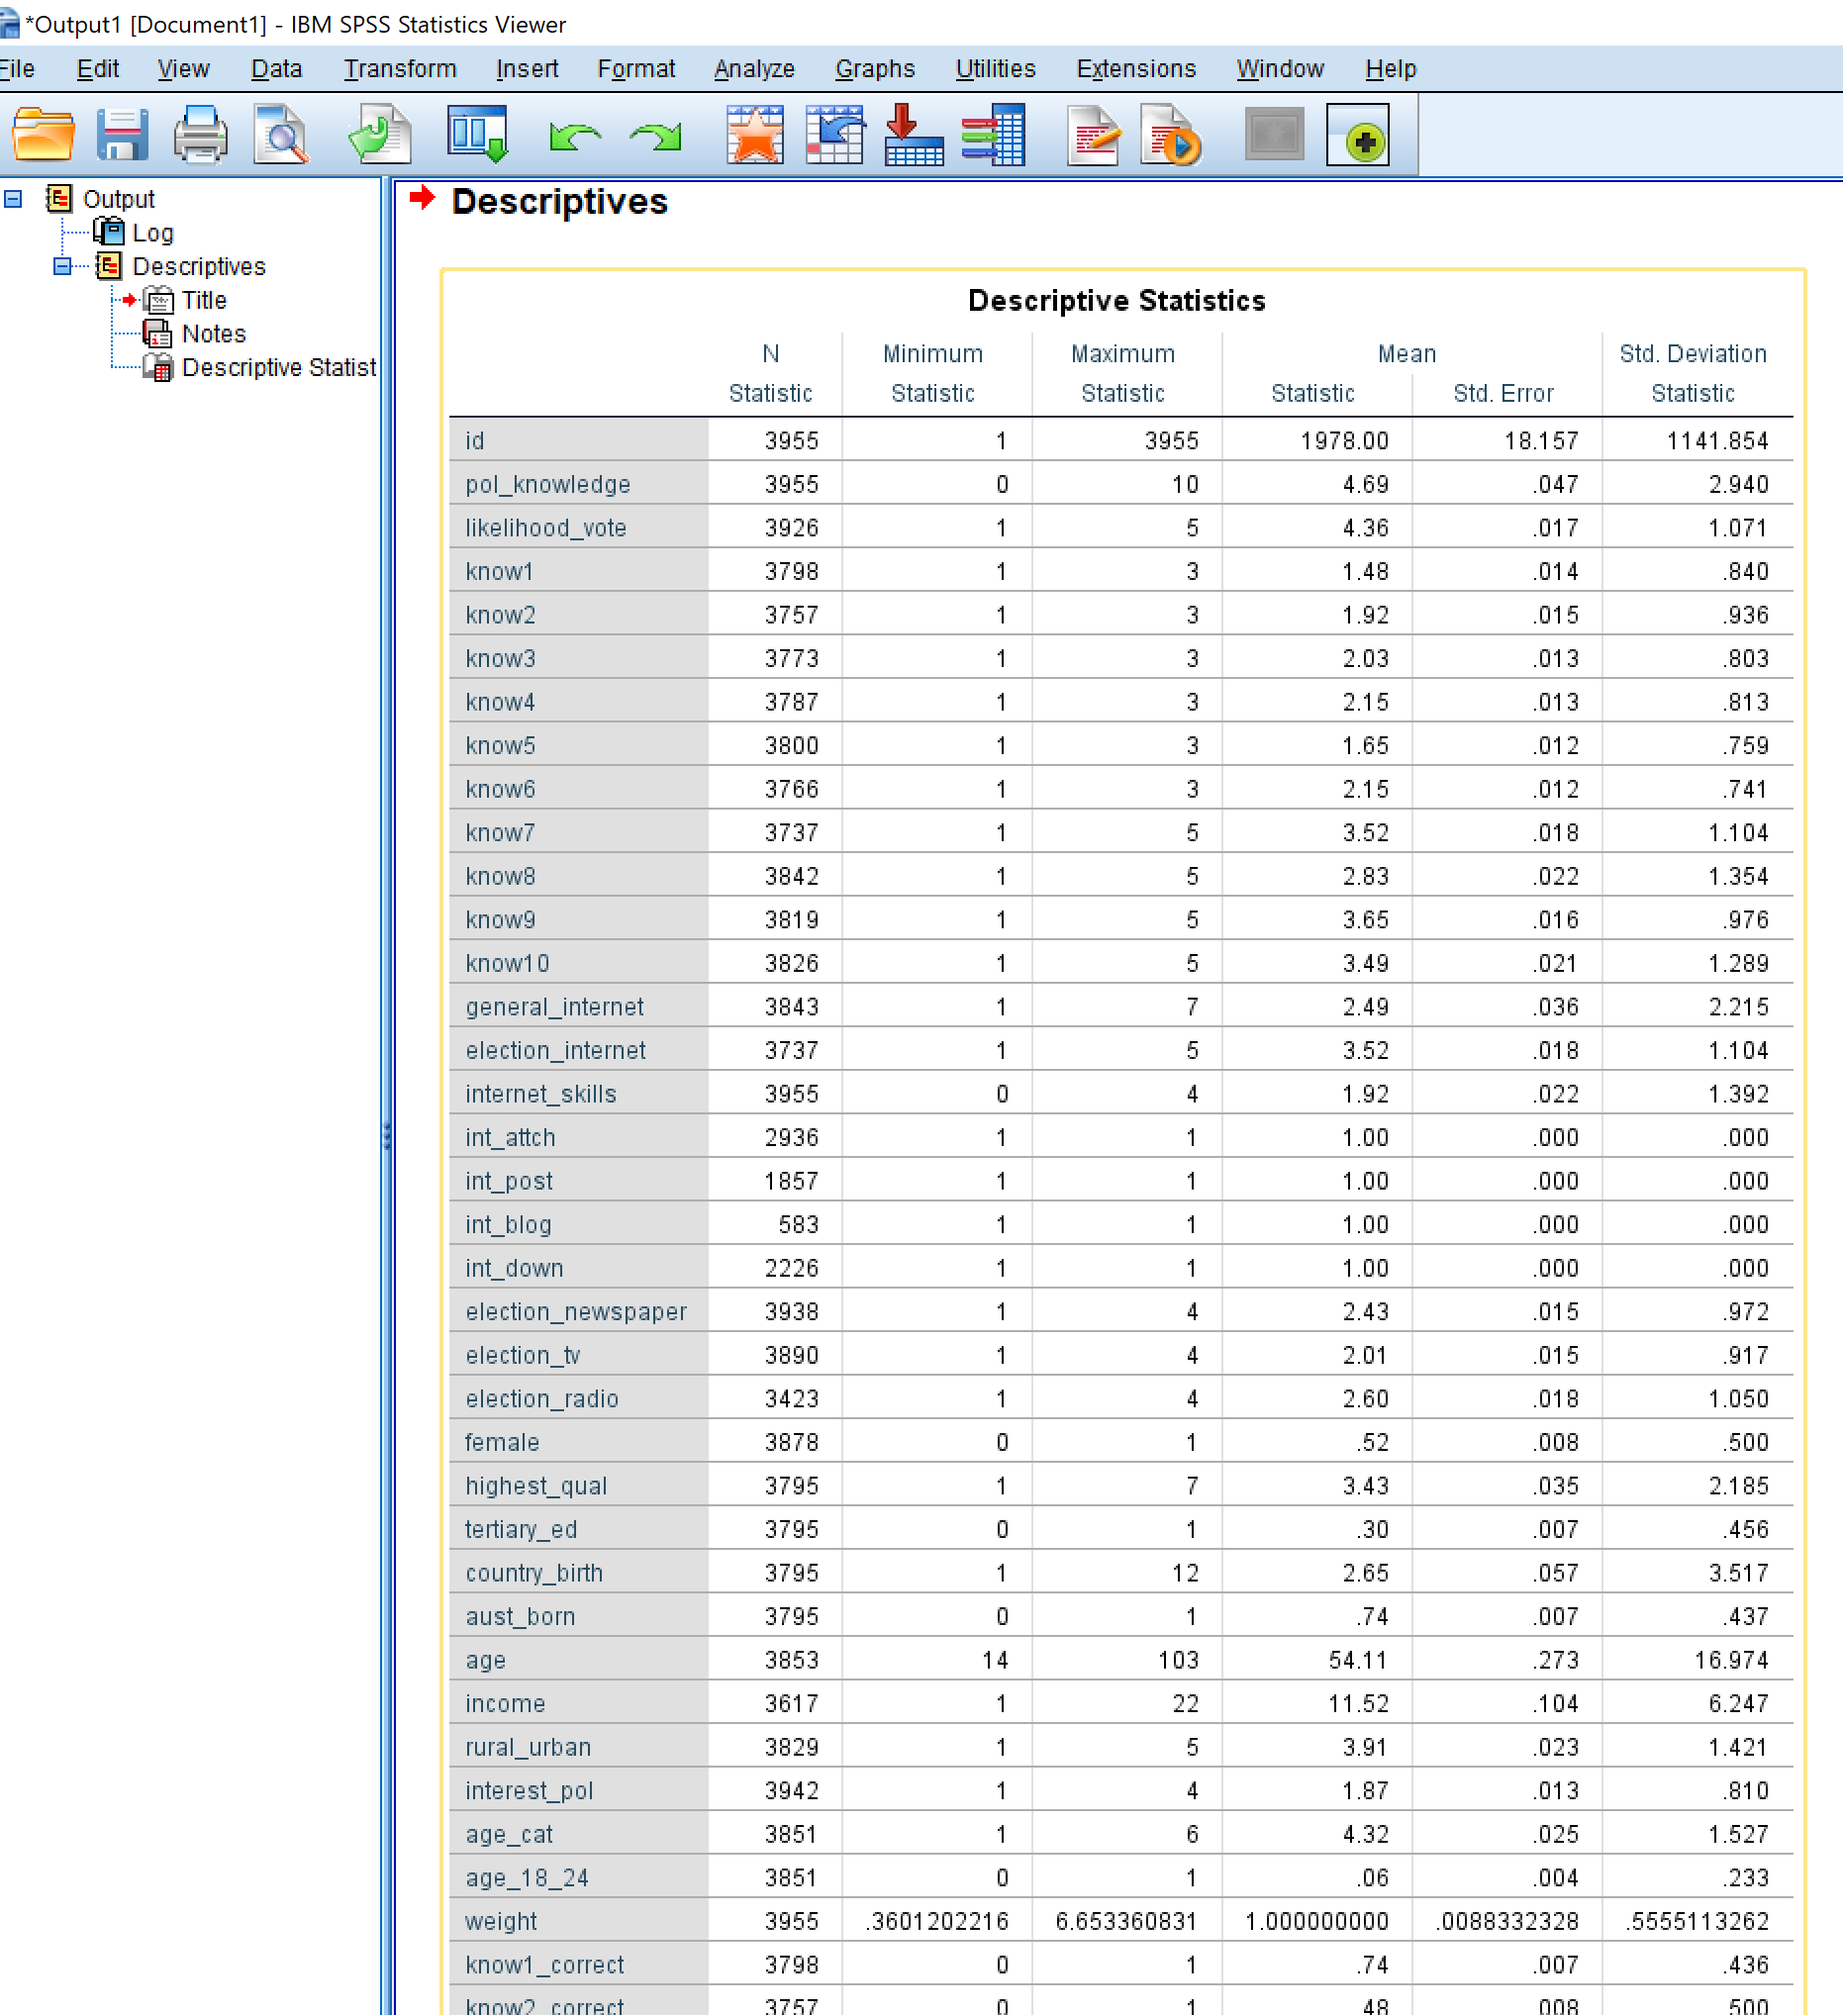
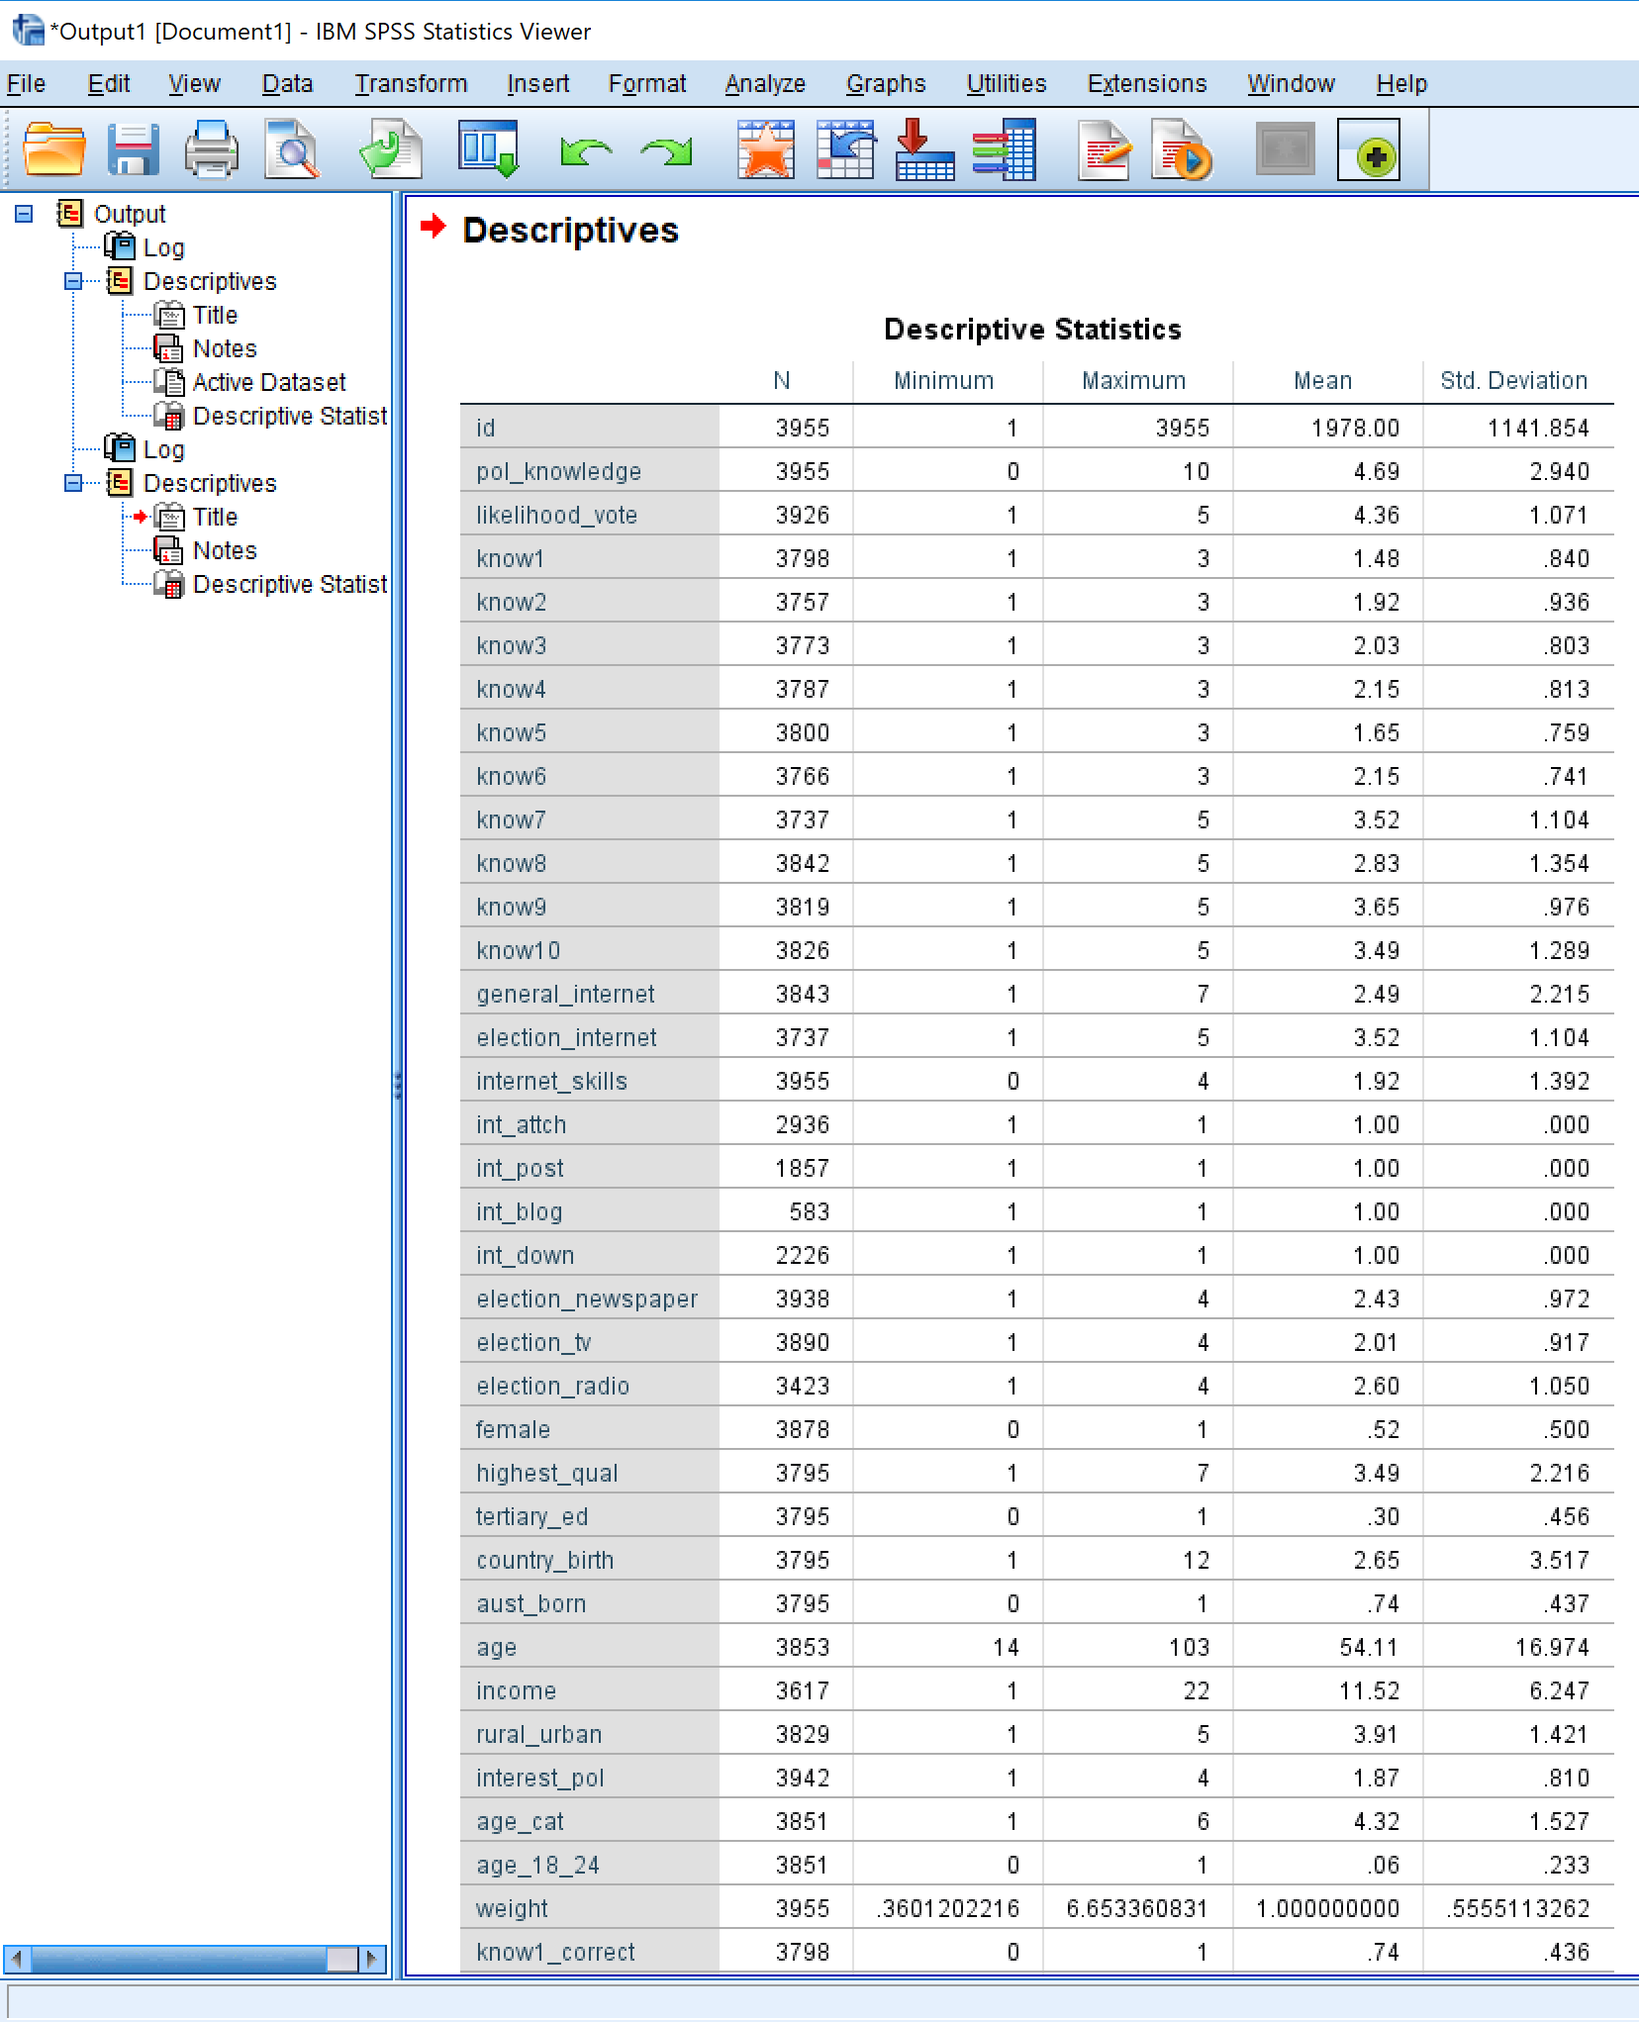
224 fix descriptive stats with layout

Changed region(s): [[0.0, 0.0, 1.0, 1.0]]

diff --git a/content/docs/quant_analysis_lab_03.html b/content/docs/quant_analysis_lab_03.html
@@ -1,5 +1,5 @@
 ---
-title: "Lab 3: Eyeballing data for errors (Descriptive Statistics)"
+title: "Lab 3: Descriptive Statistics: Summarising your data and checking for errors"
 
 lastmod: 2018-12-30T00:00:00
 
@@ -11,7 +11,7 @@ output:
   blogdown::html_page:
     toc: true
 
-linktitle: "SPSS 3: Look for errors"
+linktitle: "SPSS 3: Descriptive"
 menu:
    docs:
       parent: SOC224 SPSS Intro
@@ -55,7 +55,7 @@ menu:
 <li>Select all the variables in the box marked A in the diagram below. You can do this by clicking in the box, and then pressing “Control + A” (Windows) or “Apple + A” (Mac).</li>
 <li>Click the button with an arrow (marked 1 in the diagram below).</li>
 <li>Click the button “Options…”</li>
-<li>In the dialogue which opens (“Descriptives:Options”) select mean, Std deviation, Min, Max, SE mean.</li>
+<li>In the dialogue which opens (“Descriptives:Options”) select mean, Std deviation, Min, Max (these should be selected by default).</li>
 <li>Click “Continue”</li>
 <li>Click “OK”</li>
 </ol></li>
@@ -69,9 +69,29 @@ menu:
 <li><strong>N Statistic:</strong> This is the number of valid cases for this variable. Non-valid cases are mostly missing cases, such as people who didn’t answer that question.<br> <strong>What to look for?</strong> You want the number of valid cases to be a sensible number. Often there can be a problem where a zero is coded as missing. This is what seems to have happened for the variable is <em>int_post</em>, which has 1857 valid cases. This variable (<a href="https://mqsociology.github.io/learn-r/soci832/codebook%20aes%202013.html">look at the codebook</a>) measures whether people have posted audio, video, or image files online. It has three values: NA = Missing; 0 = Unchecked; 1 = Checked. However, if we look the Minimum and Maximum values for this variable, the min and max are the same - one (1). This suggests there is no variation, and that all Unchecked values were coded as Missing.</li>
 <li><strong>Minimum Statistic &amp; Maximum Statistic:</strong> This is the lowest value and highest of this variable. <br> <strong>What to look for?</strong> You want to check that these make sense. If you have someone who is 140 years old, there is probably a problem. If the youngest age is -999 then you also have a problem.</li>
 <li><strong>Mean Statistic:</strong> This is the mean of across all people in the dataset. You just want to ask if it is sensible.</li>
-<li><strong>Std Deviation Statistic</strong> and <strong>Std Error of Mean:</strong> These are two measures of variability. We will discuss in more detail later.</li>
+<li><strong>Std Deviation Statistic</strong> This is a measures of variability. We will discuss in more detail later.</li>
 </ol>
 <p><img src="/img/htad_lab_03_image_descriptives.png" width="600" style="display: block; margin: auto;" /></p>
+<ol start="4" style="list-style-type: decimal">
+<li>If you are writing a report and you need to put these descriptive statistics into a report, then DO NOT just make a screenshot of the SPSS output.</li>
+</ol>
+<p>Instead, what you should do is:</p>
+<ol style="list-style-type: lower-roman">
+<li>right click on the table you want to copy, and select ‘copy’</li>
+</ol>
+<p><img src="/img/htad_lab_03_image_descriptives_copy.png" width="400" style="display: block; margin: auto;" /></p>
+<ol start="2" style="list-style-type: lower-roman">
+<li>open Excel, and then paste as text (this will strip out formating)</li>
+</ol>
+<p><img src="/img/htad_lab_03_image_descriptives_copy_to_excel.png" width="300" style="display: block; margin: auto;" /></p>
+<ol start="3" style="list-style-type: lower-roman">
+<li>In Excel, reduce all the decimal points to two decimal points, unless it is a number like 0.00001, which needs more decimal points</li>
+<li>put a vertical line at the top of the table, at the bottom of the table, and under the headings.</li>
+<li>Align the columns with numbers in them to the centre</li>
+<li>Turn off gridline (View&gt;Gridlines)</li>
+<li>Take a screenshot of the table.</li>
+</ol>
+<p><img src="/img/htad_lab_03_image_descriptives_layout_excel.png" width="500" style="display: block; margin: auto;" /></p>
 </div>
 <div id="step-2-histograms" class="section level1">
 <h1>Step 2: Histograms</h1>

diff --git a/content/docs/cheatsheet_lab_02.html b/content/docs/cheatsheet_lab_02.html
@@ -37,7 +37,9 @@ menu:
 <li><a href="#deciding-on-the-question-and-the-data-you-will-analyse">3.1 Deciding on the question, and the data you will analyse</a></li>
 <li><a href="#conduct-the-analysis">3.2 Conduct the analysis</a></li>
 </ul></li>
-<li><a href="#do-a-quantitative-statistical-analysis-and-write-that-up">4. Do a quantitative (statistical) analysis and write that up</a></li>
+<li><a href="#do-a-quantitative-statistical-analysis-and-write-that-up">4. Do a quantitative (statistical) analysis and write that up</a><ul>
+<li><a href="#descriptive-statistics-table">4.1 Descriptive statistics table</a></li>
+</ul></li>
 <li><a href="#integrate-it-all-together-as-one-report">5. Integrate it all together as one report</a></li>
 <li><a href="#make-powerpoint-slides">6. Make powerpoint slides</a></li>
 <li><a href="#submit">7. Submit</a></li>
@@ -158,6 +160,26 @@ menu:
 </div>
 <div id="do-a-quantitative-statistical-analysis-and-write-that-up" class="section level1">
 <h1>4. Do a quantitative (statistical) analysis and write that up</h1>
+<p>For most papers there are at least two types of analysis you want to do:</p>
+<ol style="list-style-type: lower-roman">
+<li>a descriptive statistics table (a univariate table)</li>
+<li>a correlation matrix (a bivariate statistics table)</li>
+</ol>
+<p>In addition, you might also want to do:</p>
+<ol style="list-style-type: lower-roman">
+<li>a regression table - if you want to look at the corelation between your independent variable and a dependent variable, after controlling for other variables</li>
+<li>construct and test an index (if you have multiple variables than measure the same underlying concept)</li>
+<li>make a figure or diagram, to show your findings as an illustration.</li>
+</ol>
+<p>No matter what you do, remember the rule is to KEEP IT SIMPLE. And in the case of tables, that means keeping it to about three, with an absolute maximum of five.</p>
+<div id="descriptive-statistics-table" class="section level2">
+<h2>4.1 Descriptive statistics table</h2>
+<p>Virtually all academic papers have a descriptive statistics table. This simply shows the mean, standard deviation, min, and max for each of your variables. Why do you make this? So that the reader can get a sense of the range and characteristics of our variables.</p>
+<p>Instructions for generating descriptive statistics are here:</p>
+<ul>
+<li><a href="https://methods101.com/docs/quant_analysis_lab_03/#step-1-descriptive-statistics">How to generate descriptive statistics with SPSS</a></li>
+</ul>
+</div>
 </div>
 <div id="integrate-it-all-together-as-one-report" class="section level1">
 <h1>5. Integrate it all together as one report</h1>
